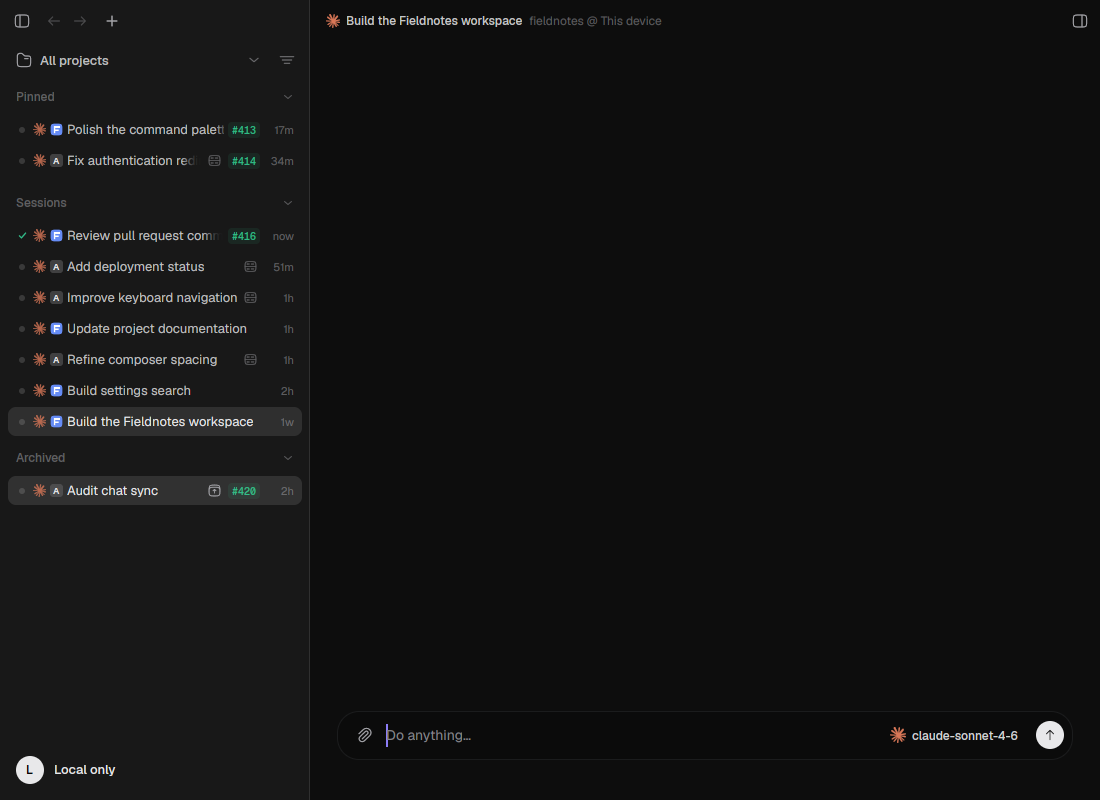
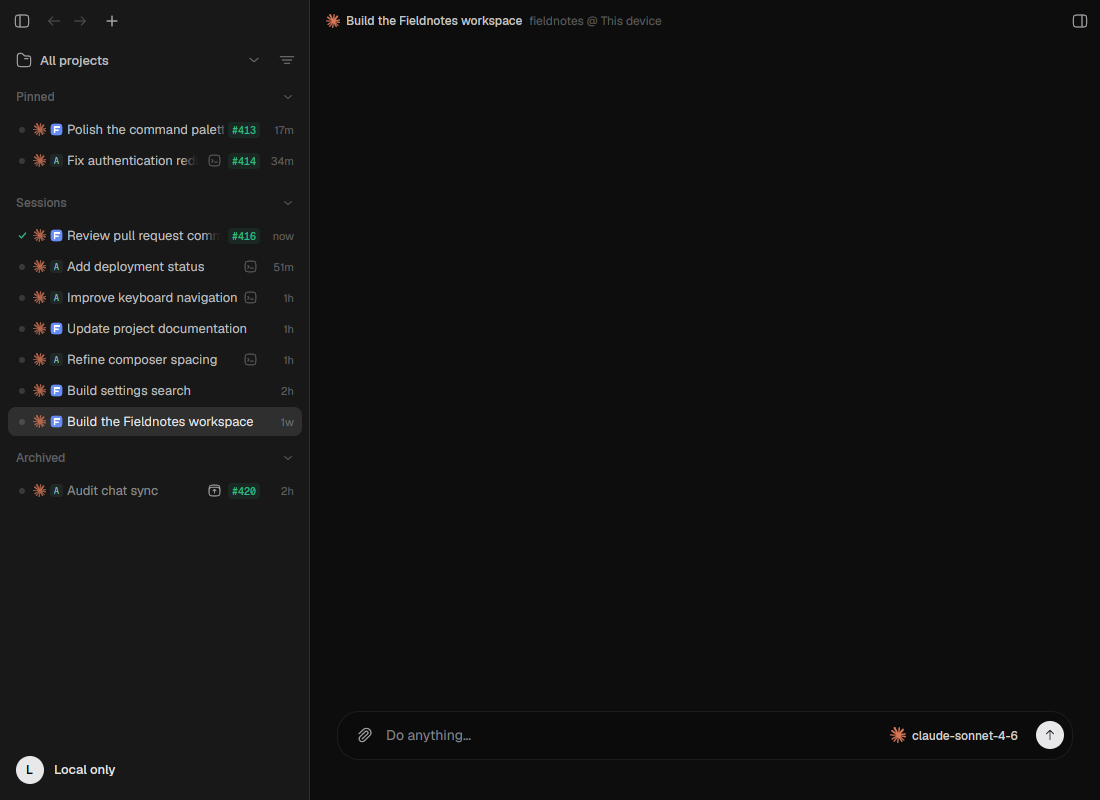
Refine project badge colors and open sidebar options to the right

diff --git a/crates/ui/src/shell/project_icon.rs b/crates/ui/src/shell/project_icon.rs
@@ -55,7 +55,7 @@ fn load_local_icon(root: &std::path::Path) -> Option<MediaImage> {
 }
 
 fn monogram(name: &str, seed: &str, theme: &Theme) -> AnyElement {
-    // FNV-1a is stable across processes; use neutral theme ink at varied opacities.
+    // FNV-1a keeps each project’s muted badge hue stable across processes.
     let hash = seed.bytes().fold(2166136261u32, |hash, byte| {
         (hash ^ u32::from(byte)).wrapping_mul(16777619)
     });
@@ -66,18 +66,35 @@ fn monogram(name: &str, seed: &str, theme: &Theme) -> AnyElement {
         .unwrap_or('?')
         .to_uppercase()
         .to_string();
+    let hue = [0.04, 0.11, 0.36, 0.48, 0.58, 0.68, 0.79, 0.91][(hash % 8) as usize];
+    let tone = gpui::hsla(
+        hue,
+        0.48,
+        if theme.appearance.is_dark() {
+            0.70
+        } else {
+            0.38
+        },
+        1.0,
+    );
     let tile = div()
         .size_full()
         .flex()
         .items_center()
         .justify_center()
         .rounded(px(3.0))
-        .bg(theme.text.opacity(0.12 + (hash % 6) as f32 * 0.025))
-        .text_color(theme.text)
-        .text_size(crate::typography::ui_rems(9.0))
-        .line_height(px(13.0))
-        .font_weight(gpui::FontWeight::SEMIBOLD)
-        .child(letter);
+        .bg(tone.opacity(0.08))
+        .text_color(tone.opacity(0.85))
+        .font_family(theme.font_mono.clone())
+        .font_weight(gpui::FontWeight::MEDIUM)
+        .child(
+            div()
+                .w_full()
+                .text_center()
+                .text_size(px(9.0))
+                .line_height(px(13.0))
+                .child(letter),
+        );
     crate::frost::frosted(3.0, crate::frost::MENU_BLUR, tile).into_any_element()
 }
 

diff --git a/crates/ui/src/popover.rs b/crates/ui/src/popover.rs
@@ -513,6 +513,32 @@ pub fn anchored_menu_below_end(
         .into_any_element()
 }
 
+/// Open a top-level menu beside the trigger, clamped to the window.
+pub fn anchored_menu_right(
+    id: impl Into<SharedString>,
+    content: AnyElement,
+    closing: Option<std::time::Instant>,
+) -> AnyElement {
+    let exit = closing.map(exit_progress);
+    let content = frosted_menu(exit, content);
+    div()
+        .absolute()
+        .top_0()
+        .right(px(-6.0))
+        .size_0()
+        .child(
+            gpui::deferred(
+                gpui::anchored()
+                    .anchor(Anchor::TopLeft)
+                    .snap_to_window_with_margin(px(8.0))
+                    .child(menu_motion(id.into(), exit, div().occlude().child(content))),
+            )
+            .priority(1)
+            .into_any_element(),
+        )
+        .into_any_element()
+}
+
 /// A nested menu beside its trigger. Callers choose the side that has room;
 /// vertical placement still stays within the window's eight-pixel gutter.
 pub fn nested_menu(id: impl Into<SharedString>, content: AnyElement, left: bool) -> AnyElement {

diff --git a/crates/ui/src/shell/spaces.rs b/crates/ui/src/shell/spaces.rs
@@ -3378,13 +3378,11 @@ impl Shell {
         let view_trigger = if self.sidebar_view_menu.get().is_some() {
             let closing = self.sidebar_view_menu.closing_since();
             let menu = self.render_sidebar_view_menu(theme, cx);
-            view_trigger
-                .relative()
-                .child(popover::anchored_menu_below_end(
-                    "sidebar-view-options-menu",
-                    menu,
-                    closing,
-                ))
+            view_trigger.relative().child(popover::anchored_menu_right(
+                "sidebar-view-options-menu",
+                menu,
+                closing,
+            ))
         } else {
             view_trigger
         };

diff --git a/docs/screenshots/sidebar-layout/README.md b/docs/screenshots/sidebar-layout/README.md
@@ -14,9 +14,9 @@ Archived sessions share active-session metadata and layout preferences, with mut
 project/harness artwork and an Unarchive action in the same hover slot.
 
 Repository artwork follows [Conductor's documented filename priority](https://www.conductor.build/docs/faq#where-does-conductor-get-the-repo-icon).
-The first existing file wins; missing or invalid artwork uses the project initial on a neutral, translucent
-frosted background using the composer’s backdrop-blur helper. A stable hash of the project path chooses the shade; theme ink keeps
-it readable on glass in light and dark themes. Local reads and bounded image decoding run off the UI thread. Remote
+The first existing file wins; missing or invalid artwork uses the project initial on a muted, colored
+frosted background using the composer’s backdrop-blur helper. A stable hash of the project path chooses the hue, with appearance-aware lightness. Like PR badges, the background
+uses 8% of the tone and the monospaced letter uses 85%. Local reads and bounded image decoding run off the UI thread. Remote
 projects use the owning device's workspace file RPC, including ICO support.
 Artwork is shared across a project's rows, refreshed after five minutes, and
 released from the image atlas when its cache entry expires. Raster thumbnails
@@ -43,4 +43,7 @@ Validation: `cargo test -p zeron-ui --lib -- --test-threads=1` passed all 1,119
 tests. The native fixture build, formatting checks, and `git diff --check` passed.
 
 Latest icon/order follow-up: all 40 sidebar regression tests passed; native screenshots
-were refreshed with the server-square remote icon and harness-first ordering.
+were refreshed with the terminal remote icon and harness-first ordering.
+
+The view-options popover opens to the right of the filter button and stays within
+the window bounds. Monogram letters use centered monospace text.
